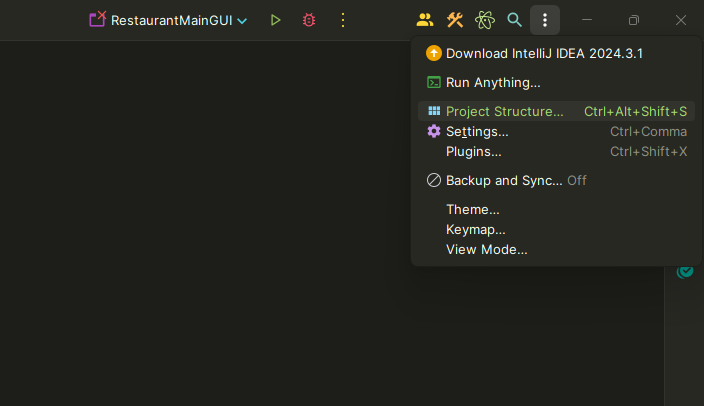
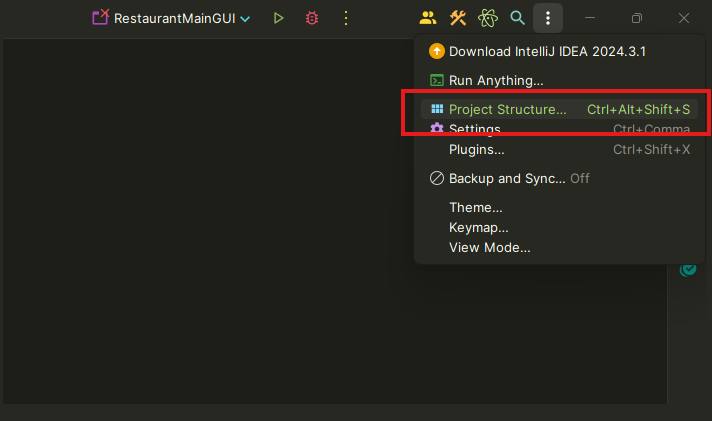
docs: enhance README with project details, team roles, technologies, and installation instructions

diff --git a/README.md b/README.md
@@ -1,74 +1,151 @@
 # 🍾HuongBien Restaurant🍻
 
 ## Mô tả dự án
+
 Dự án **HuongBien Restaurant** là đồ án môn phát triển phần mềm. Là phần mềm quản lý đặt bàn được xây dựng nhằm hỗ trợ hoạt động của nhà hàng Hương Biển. Phần mềm được phát triển với mục tiêu tối ưu hóa quy trình làm việc, nâng cao hiệu suất kinh doanh, giảm thiểu sai sót và cải thiện trải nghiệm khách hàng.
 
+_*Giao diện đăng nhập*_
+
+![Giao diện đăng nhập app quản lý đặt bàn Nhà hàng Hương Biển](HuongBienRestaurant/src/main/resources/com/huongbien/img/readme/login-ui.png)
+
+
+_*Giao diện trang chủ*_
+
+![App Quản lý đặt bàn Nhà Hàng Hương Biển](HuongBienRestaurant/src/main/resources/com/huongbien/img/readme/HuongBienApp.png)
+
 ## Danh sách thành viên
+
 - Nguyễn Trần Gia Sĩ **🌟LEADER🌟** (_*giasinguyen Nguyễn Trần Gia Sĩ*_)
-- Nguyễn Trung Nguyên (_*NguyenNguyen0 nguyennguyen0*_)
-- Nguyễn Văn Minh **👑MVP👑** (_*nvminh162 Nguyen Minh (paul)*_)
-- Đào Quốc Tuấn (_*daoquoctuan972*_)
+- Nguyễn Trung Nguyên **🗿DB & BE DEVELOPER🗿** (_*NguyenNguyen0 nguyennguyen0*_)
+- Nguyễn Văn Minh **👑FULL-STACK DEVELOPER👑** (_*nvminh162 Nguyen Minh (paul)*_)
+- Đào Quốc Tuấn **💋TECHNICAL WRITER💄** (_*daoquoctuan972*_)
 
 ## Các công nghệ được sử dụng
-- **Ngôn ngữ lập trình**: Java  
-- **Công cụ phát triển**: IntelliJ IDEA  
-- **Giao diện người dùng**: JavaFX  
-- **Cơ sở dữ liệu**: Microsoft SQL Server  
-- **Quản lý dự án**: Git và GitHub  
+
+- **Ngôn ngữ lập trình**: Java
+- **Công cụ phát triển**: IntelliJ IDEA
+- **Giao diện người dùng**: JavaFX
+- **Cơ sở dữ liệu**: Microsoft SQL Server
+- **Quản lý dự án**: Git và GitHub
 
 ## Tính năng chính
+
 1. **Quản lý đặt bàn**:
-   - Tạo, sửa, hủy đơn đặt bàn.  
-   - Kiểm tra trạng thái bàn trống và gợi ý bàn phù hợp.  
+   - Tạo, sửa, hủy đơn đặt bàn.
+   - Kiểm tra trạng thái bàn trống và gợi ý bàn phù hợp.
 2. **Quản lý khách hàng**:
-   - Thêm mới, chỉnh sửa thông tin khách hàng.  
-   - Theo dõi khách hàng thân thiết và áp dụng ưu đãi.  
+   - Thêm mới, chỉnh sửa thông tin khách hàng.
+   - Theo dõi khách hàng thân thiết và áp dụng ưu đãi.
 3. **Quản lý hóa đơn**:
-   - Tính tiền và in hóa đơn.  
-   - Tìm kiếm hóa đơn khi cần thiết.  
+   - Tính tiền và in hóa đơn.
+   - Tìm kiếm hóa đơn khi cần thiết.
 4. **Thống kê và báo cáo**:
-   - Báo cáo doanh thu theo ngày, tuần, tháng.  
-   - Thống kê số lượng khách và tình trạng sử dụng bàn.  
+   - Báo cáo doanh thu theo ngày, tuần, tháng.
+   - Thống kê số lượng khách và tình trạng sử dụng bàn.
 5. **Quản lý nhân viên**:
-   - Theo dõi thông tin nhân viên.  
-   - Quản lý ca làm việc và đánh giá hiệu suất.  
+   - Theo dõi thông tin nhân viên.
+   - Quản lý ca làm việc và đánh giá hiệu suất.
 
 ## Cách cài đặt và chạy dự án
 
 ### Yêu cầu hệ thống
+
 - **Java**: JDK 23 hoặc mới hơn
 - **Javafx**: bản 23 hoặc mới hơn
 - **OpenCV**: bản 4.5.1 hoặc mới hơn
-- **IntelliJ IDEA**: Bản Community hoặc Ultimate  
+- **IntelliJ IDEA**: Bản Community hoặc Ultimate
 - **SQL Server**: SQL Server 2012 hoặc mới hơn
-- **Môi trường phát triển**: Windows 10 và Windows 11  
+- **Môi trường phát triển**: Windows 10 và Windows 11
 
 ### Hướng dẫn cài đặt
-1. Clone repository từ GitHub:  
-   ```bash
-   git clone <link_repository>
 
-2. Cấu hình file môi trường `.env`
-Để dự án hoạt động đúng, bạn cần tạo file `.env` trong thư mục gốc của dự án và thêm các thông tin cấu hình như sau:  
+1.  **Clone repository từ GitHub:**
 
-    ```plaintext
-    # DATABASE
-    DB_URL="jdbc:sqlserver://localhost:1433;databaseName=HuongBien;encrypt=true;trustServerCertificate=true;loginTimeout=30" # for localhost
-    DB_USER="" # database username
-    DB_PASSWORD="" # database password
+      ```bash
+      git clone https://github.com/NguyenNguyen0/HuongBien.git
+      ```
 
-    # EMAIL
-    EMAIL_USERNAME="restaurant@example.com"
-    EMAIL_PASSWORD="xxxx xxxx xxxx xxxx"
+2.  **Cấu hình file môi trường `.env`**
 
-3. Cấu hình thư viện opencv
-    1. Mở project structure
-    ![Mở project structure](HuongBienRestaurant\src\main\resources\com\huongbien\img\readme\open-project-structure.png)
-    2. Chọn sửa module opencv
-    ![Chọn sửa module opencv](HuongBienRestaurant\src\main\resources\com\huongbien\img\readme\edit-open-cv.png)
-    3. Mở đường dẫn đến opencv
-    ![Mở đường dẫn đến opencv](HuongBienRestaurant\src\main\resources\com\huongbien\img\readme\open-file-manager.png)
-    4. Chọn file jar của java trong opencv
-    ![Chọn file jar của java trong opencv](HuongBienRestaurant\src\main\resources\com\huongbien\img\readme\select-dll-file.png)
-    5. **Cuối cùng chọn OK và apply**
-    ![Cuối cùng chọn OK và apply](HuongBienRestaurant\src\main\resources\com\huongbien\img\readme\apply-change.png)
+      Để dự án hoạt động đúng, bạn cần tạo file `.env` trong thư mục gốc của dự án và thêm các thông tin cấu hình như sau:
+
+      ![Cấu hình file .env trong dự án](HuongBienRestaurant/src/main/resources/com/huongbien/img/readme/env-file.png)
+
+      ```plaintext
+      # DATABASE
+      DB_URL="jdbc:sqlserver://localhost:1433;databaseName=HuongBien;encrypt=true;trustServerCertificate=true;loginTimeout=30" # for localhost
+      DB_USER="" # database username
+      DB_PASSWORD="" # database password
+
+      # EMAIL
+      EMAIL_USERNAME="restaurant@example.com"
+      EMAIL_PASSWORD="xxxx xxxx xxxx xxxx"
+      ```
+
+3. **Cấu hình VM config**
+
+      Cần thêm cấu hình VM để chạy dự án, cho đường dẫn SDK của bạn vào 1 trong các file `RestaurantLoginGUI.java` (_*app bắt đầu từ đây*_),  `RestaurantMainManagerGUI.java` hoặc `RestaurantMainStaffGUI.java`. Cấu hình như sau:
+
+      **Cấu hình VM**: Thay `<your path>` thành đường dẫn javafx-sdk trên máy bạn
+
+      ```plaintext
+      --module-path <your path>  --add-modules javafx.controls,javafx.fxml,javafx.media --add-opens javafx.graphics/com.sun.javafx.scene=ALL-UNNAMED  --add-opens javafx.graphics/com.sun.javafx.sg.prism=ALL-UNNAMED  --add-opens javafx.base/com.sun.javafx.reflect=ALL-UNNAMED  --add-opens javafx.graphics/com.sun.javafx.util=ALL-UNNAMED
+      ```
+
+      **Các bước cấu hình**
+
+      1. **Mở configuration của file đang chạy chọn Edit** 
+
+      ![Mở configuration của file đang chạy](HuongBienRestaurant/src/main/resources/com/huongbien/img/readme/open-edit-configuration.png)
+
+
+      2. **Chọn modify options**
+
+      ![Chọn modify options](HuongBienRestaurant/src/main/resources/com/huongbien/img/readme/select-modify-option.png)
+
+
+      3. **Chọn Add VM options**
+
+      ![Chọn Add VM options](HuongBienRestaurant/src/main/resources/com/huongbien/img/readme/select-add-vm.png) 
+
+      4. **Dán VM config vào VM options và chọn Apply**
+
+      ![Dán VM config vào VM options và chọn Apply](HuongBienRestaurant/src/main/resources/com/huongbien/img/readme/paste-vm-config.png)
+
+4. **Cấu hình thư viện opencv**
+
+      1. **Mở project structure**
+
+      ![Mở project structure](HuongBienRestaurant/src/main/resources/com/huongbien/img/readme/open-project-structure.png)
+
+      2. **Chọn sửa module opencv**
+
+      ![Chọn sửa module opencv](HuongBienRestaurant/src/main/resources/com/huongbien/img/readme/edit-open-cv.png)
+
+      3. **Mở đường dẫn đến opencv**
+
+      ![Mở đường dẫn đến opencv](HuongBienRestaurant/src/main/resources/com/huongbien/img/readme/open-file-manager.png)
+
+      4. **Chọn file .dll của java trong opencv**
+
+      ![Chọn file jar của java trong opencv](HuongBienRestaurant/src/main/resources/com/huongbien/img/readme/select-dll-file.png)
+
+      5. **Cuối cùng chọn OK và apply**
+
+      ![Cuối cùng chọn OK và apply](HuongBienRestaurant/src/main/resources/com/huongbien/img/readme/apply-change.png)
+
+## Lời kết
+
+Dự án HuongBien Restaurant là kết quả của sự nỗ lực và phối hợp chặt chẽ giữa các thành viên trong nhóm. Với mục tiêu tối ưu hóa quy trình quản lý nhà hàng, phần mềm không chỉ giúp giảm tải công việc cho nhân viên mà còn nâng cao trải nghiệm khách hàng và cải thiện hiệu suất kinh doanh.
+
+Chúng tôi hy vọng rằng phần mềm này sẽ không chỉ đáp ứng tốt các yêu cầu hiện tại của nhà hàng mà còn tạo tiền đề cho những cải tiến và phát triển trong tương lai. Sự phản hồi và góp ý từ người dùng sẽ là động lực để nhóm tiếp tục hoàn thiện sản phẩm, mang lại giá trị cao hơn cho nhà hàng và khách hàng.
+
+Cảm ơn các giảng viên, bạn bè và tất cả những người đã hỗ trợ và đồng hành cùng chúng tôi trong suốt quá trình thực hiện dự án này.
+
+Nhóm phát triển: Nhóm 2
+
+**Leader**: Nguyễn Trần Gia Sĩ
+**Developers**: Nguyễn Trung Nguyên, Nguyễn Văn Minh
+**Technical Writer**: Đào Quốc Tuấn
+
+💡 Mọi góp ý xin gửi về email: huongbienrestaurantcskh@gmail.com
